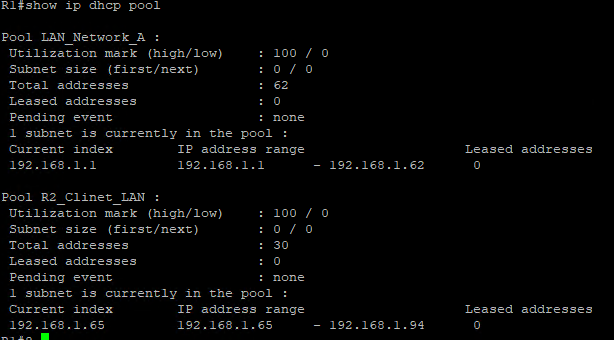
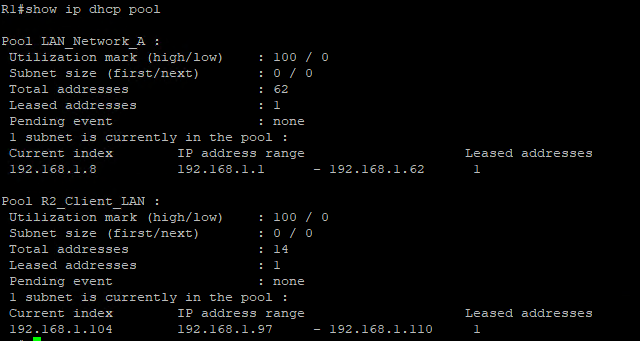
1

diff --git a/lab/lab03/dhcp-v4/README.md b/lab/lab03/dhcp-v4/README.md
@@ -331,7 +331,7 @@ R1
     en
     conf ter
     ip dhcp excluded-address 192.168.1.1 192.168.1.6
-    ip dhcp excluded-address 192.168.1.65 192.168.1.70
+    ip dhcp excluded-address 192.168.1.97 192.168.1.102
 
         ip dhcp pool LAN_Network_A
         default-router 192.168.1.1
@@ -340,8 +340,8 @@ R1
         lease 2 12 30
 
         ip dhcp pool R2_Clinet_LAN
-        network 192.168.1.64 255.255.255.224
-        default-router 192.168.1.65
+        network 192.168.1.96 255.255.255.240
+        default-router 192.168.1.97
         domain-name ccna-lab.com
         lease 2 12 30
 
